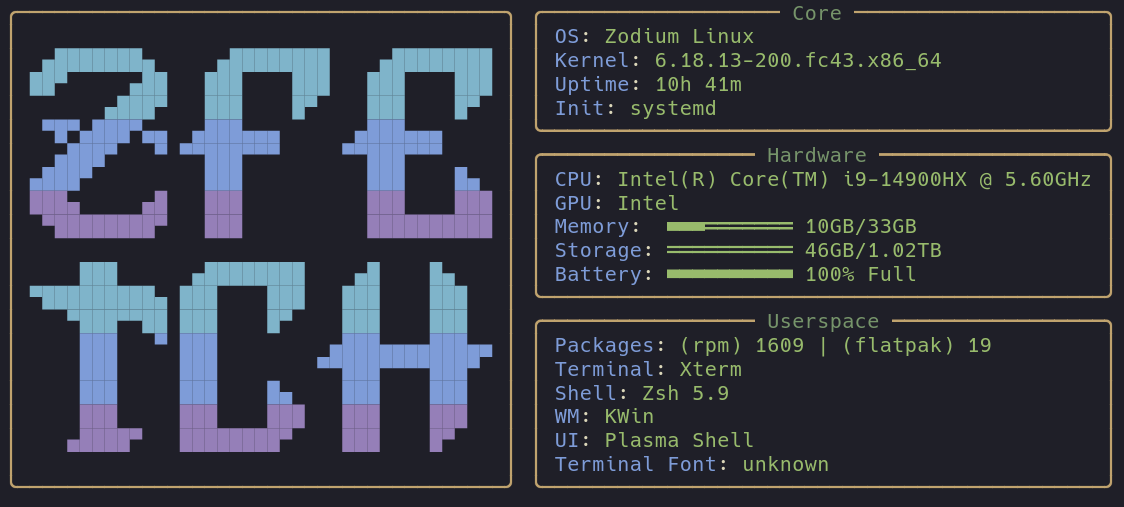
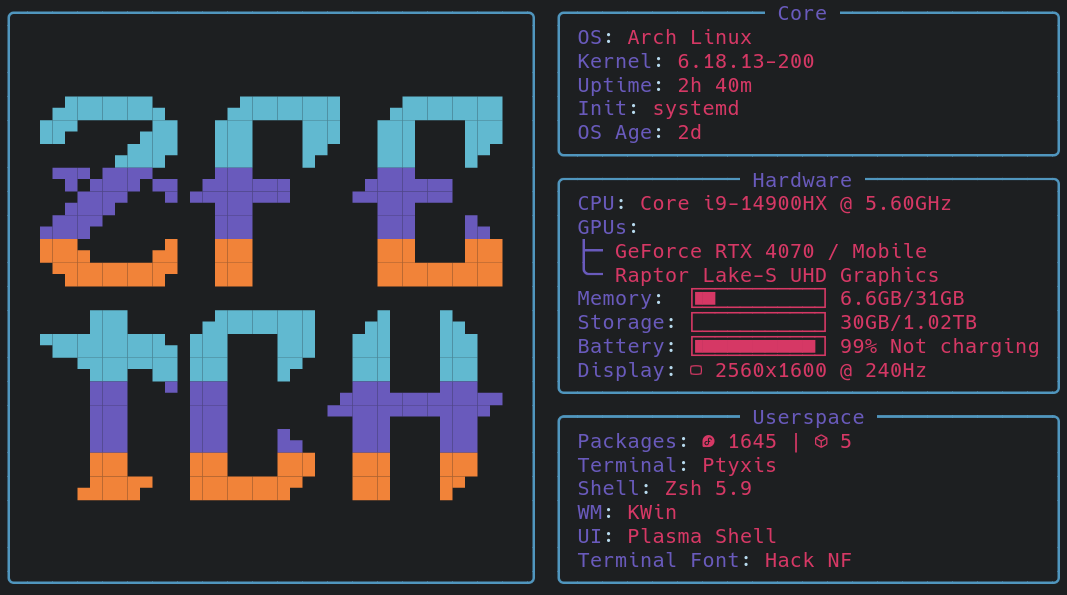
new preview files

diff --git a/README.md b/README.md
@@ -49,3 +49,7 @@ you can use the provided precompiled binary in release section.
 ![zfetch preview 2](https://raw.githubusercontent.com/zodium-project/zfetch-rs/refs/heads/stable/preview-2.png)
 
 ![zfetch preview 3](https://raw.githubusercontent.com/zodium-project/zfetch-rs/refs/heads/stable/preview-3.png)
+
+## Credits 
+
+Slowfetch => zfetch is a fork of slowfetch , you can find slowfetch at : https://github.com/tuibird/slowfetch
